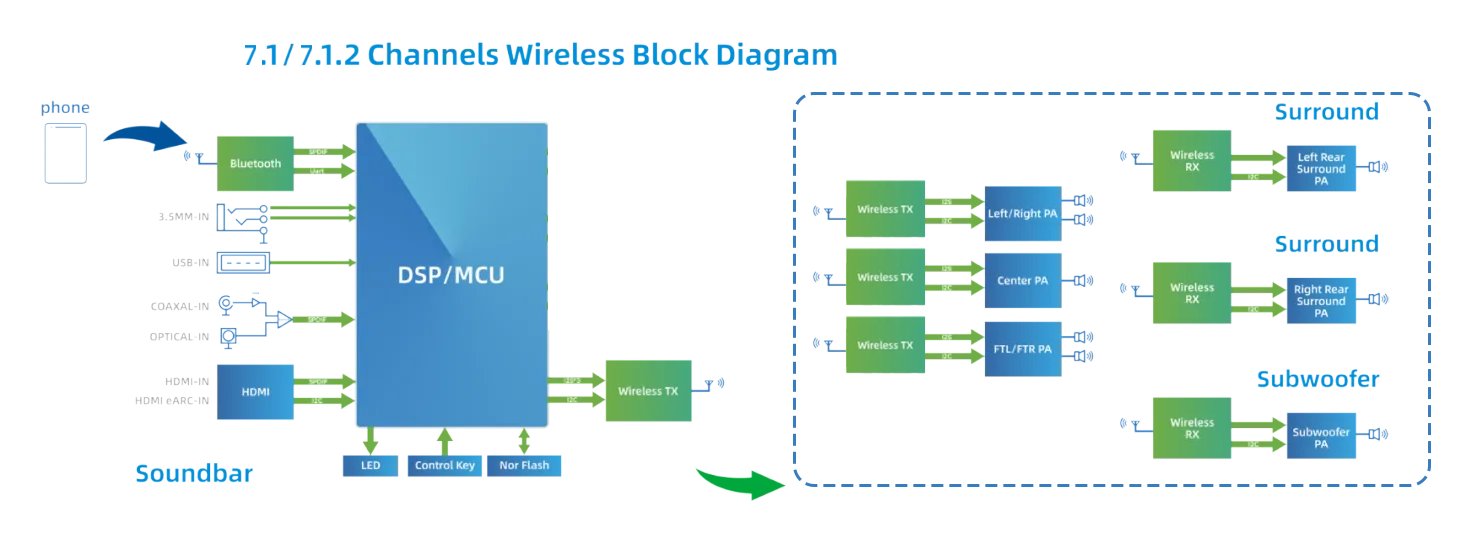
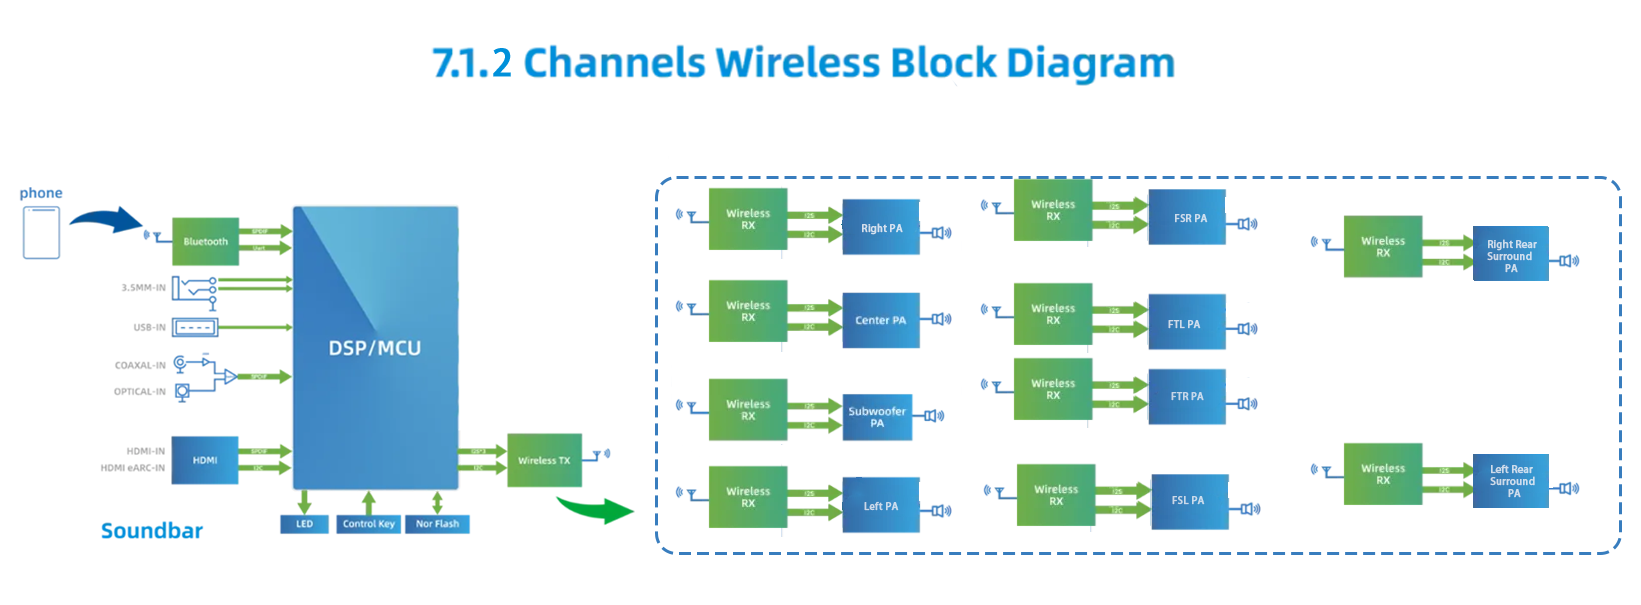
update

diff --git a/zh/docs/services_support/audio/RTL8711dome.md b/zh/docs/services_support/audio/RTL8711dome.md
@@ -1,0 +1,43 @@
+# RTL8711DCM 演示板接线说明
+
+### 1.无线音频演板控制介绍
+(1)  无线2.1音频演示板控制示意图
+![图片](../../assets/images/speaker/11-08/dome/d-1.PNG)
+（2）无线5.1音频演示板控制示意图
+![图片](../../assets/images/speaker/11-08/dome/d-2.PNG)
+（3）无线7.1.2音频演示板控制示意图    
+![图片](../../assets/images/speaker/11-08/dome/d-3.PNG)
+### 2. 无线音频演板接线介绍
+（1)   无线音频TX 演示板 I2S、I2C 控制引脚示意图 
+![图片](../../assets/images/speaker/11-08/dome/4.png)
+（2)   DSP 与 无线音频TX 演示板 I2S、I2C 接线示意图
+![图片](../../assets/images/speaker/11-08/dome/d-5.png)
+1）DSP 与 无线音频TX 演示板 2.1 声道 I2S 接线说明
+
+    DSP 作为 Slave 时需要的I2S 信号线: I2S_BCLK 、 I2S_LRCLK、 I2S_DATA0、 I2S_DATA1、 GND 
+    
+    DSP 作为 Master 时需要的I2S 信号线: 
+    I2S_MCLK、  I2S_BCLK 、 I2S_LRCLK 、I2S_DATA0、 I2S_DATA1 、GND 
+
+2）DSP 与 无线音频TX 演示板 5.1 声道 I2S 接线说明
+
+    DSP 作为 Slave 时需要的I2S 信号线: 
+    I2S_BCLK 、 I2S_LRCLK、 I2S_DATA0、 I2S_DATA1、I2S_DATA2、 GND 
+    
+    DSP 作为 Master 时需要的I2S 信号线: 
+    I2S_MCLK、  I2S_BCLK 、 I2S_LRCLK 、I2S_DATA0、 I2S_DATA1 、I2S_DATA2、GND
+
+3）DSP 与 无线音频TX 演示板 7.1.2 声道 I2S 接线说明
+
+    DSP 作为 Slave 时需要的I2S 信号线: 
+    I2S_BCLK 、 I2S_LRCLK、 I2S_DATA0、 I2S_DATA1、I2S_DATA2、I2S_DATA3、
+    I2S_EX_LRCLK、I2S_EX_BCLK、I2S_EX_DATA0、 GND 
+    
+    DSP 作为 Master 时需要的I2S 信号线: 
+    I2S_MCLK、  I2S_BCLK 、 I2S_LRCLK 、I2S_DATA0、 I2S_DATA1 、I2S_DATA2、I2S_DATA3、
+    I2S_EX_LRCLK、I2S_EX_BCLK、I2S_EX_DATA0、 GND
+
+(3) 无线音频RX 演示板 接线示意图 
+![图片](../../assets/images/speaker/11-08/dome/d-6.png)
+
+![图片](../../assets/images/speaker/11-08/dome/d-7.png)

diff --git a/zh/docs/services_support/audio/RTL8711model.md b/zh/docs/services_support/audio/RTL8711model.md
@@ -1,0 +1,46 @@
+
+
+# RTL8711DCM 模组设计说明
+
+### 1. 无线音频模组控制介绍
+(1)  无线2.1音频模组控制示意图
+![图片](../../assets/images/speaker/11-08/model/m-1.PNG)
+（2）无线5.1音频模组控制示意图
+![图片](../../assets/images/speaker/11-08/model/m-2.PNG)
+（3）无线7.1.2音频模组控制示意图
+![图片](../../assets/images/speaker/11-08/model/m-3.PNG)
+
+### 2. RTL8711DCM 模组PIN 脚图
+![图片](../../assets/images/speaker/11-08/model/m-4.PNG)
+
+### 3. RTL8711DCM 模组硬件线路控制示意图
+     (1) RTL8711DCM 模组（TX）硬件控制图
+![图片](../../assets/images/speaker/11-08/model/m-5.png)
+1）DSP 与 RTL8711DCM 模组（TX） 声道 I2S 接线说明
+
+     DSP 作为 Slave 时需要的I2S 信号线: I2S_BCLK 、 I2S_LRCLK、 I2S_DATA0、 I2S_DATA1、 GND 
+
+     DSP 作为 Master 时需要的I2S 信号线: 
+     I2S_MCLK、  I2S_BCLK 、 I2S_LRCLK 、I2S_DATA0、 I2S_DATA1 、GND 
+
+2）DSP 与 RTL8711DCM 模组（TX） 5.1 声道 I2S 接线说明
+
+     DSP 作为 Slave 时需要的I2S 信号线: 
+     I2S_BCLK 、 I2S_LRCLK、 I2S_DATA0、 I2S_DATA1、I2S_DATA2、 GND 
+
+     DSP 作为 Master 时需要的I2S 信号线: 
+     I2S_MCLK、  I2S_BCLK 、 I2S_LRCLK 、I2S_DATA0、 I2S_DATA1 、I2S_DATA2、GND 
+
+3）DSP 与 无线音频 RTL8711DCM 模组（TX）7.1.2 声道 I2S 接线说明
+
+     DSP 作为 Slave 时需要的I2S 信号线: 
+     I2S_BCLK 、 I2S_LRCLK、 I2S_DATA0、 I2S_DATA1、I2S_DATA2、I2S_DATA3、
+     I2S_EX_LRCLK、I2S_EX_BCLK、I2S_EX_DATA0、 GND 
+
+     DSP 作为 Master 时需要的I2S 信号线: 
+     I2S_MCLK、  I2S_BCLK 、 I2S_LRCLK 、I2S_DATA0、 I2S_DATA1 、I2S_DATA2、I2S_DATA3、
+     I2S_EX_LRCLK、I2S_EX_BCLK、I2S_EX_DATA0、 GND 
+
+ (2) RTL8711DCM 模组（RX）硬件控制图
+![图片](../../assets/images/speaker/11-08/model/m-6.png)
+
